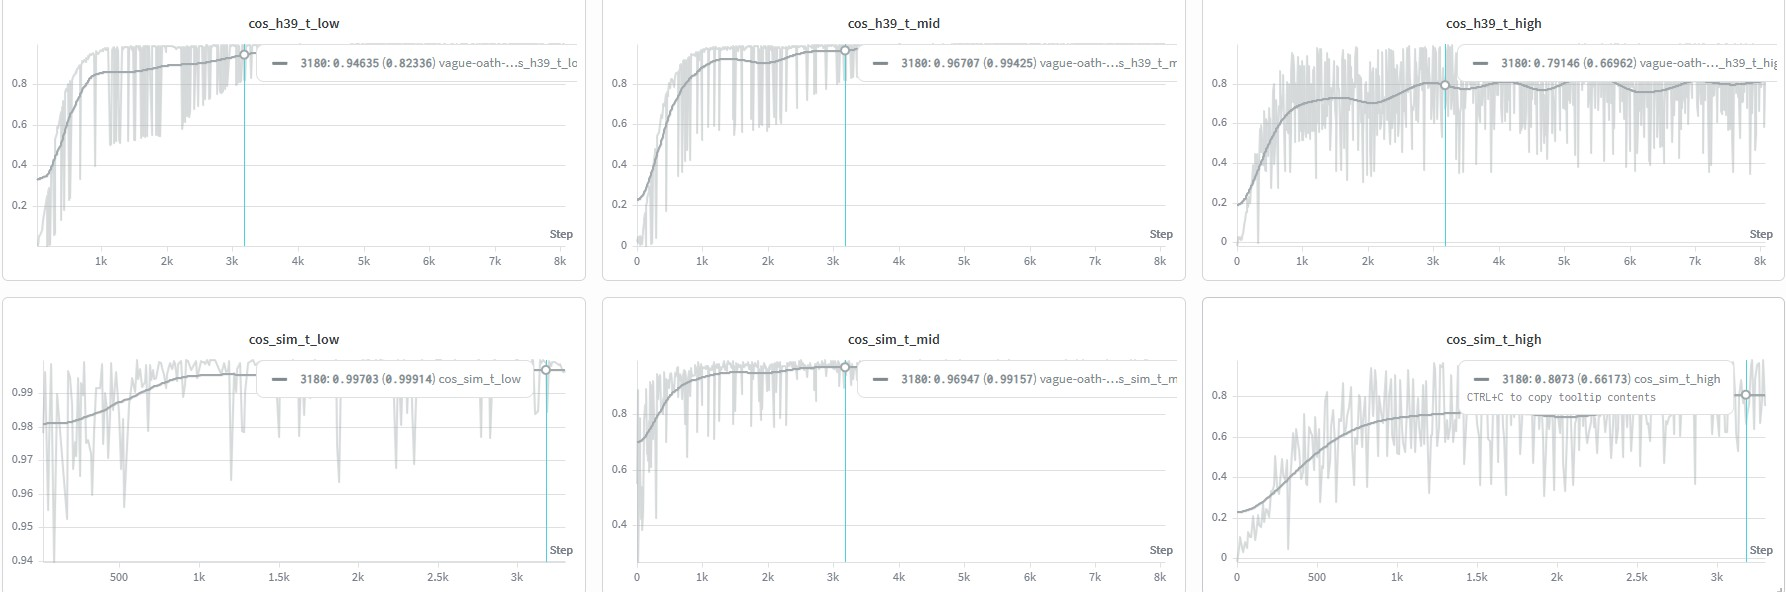
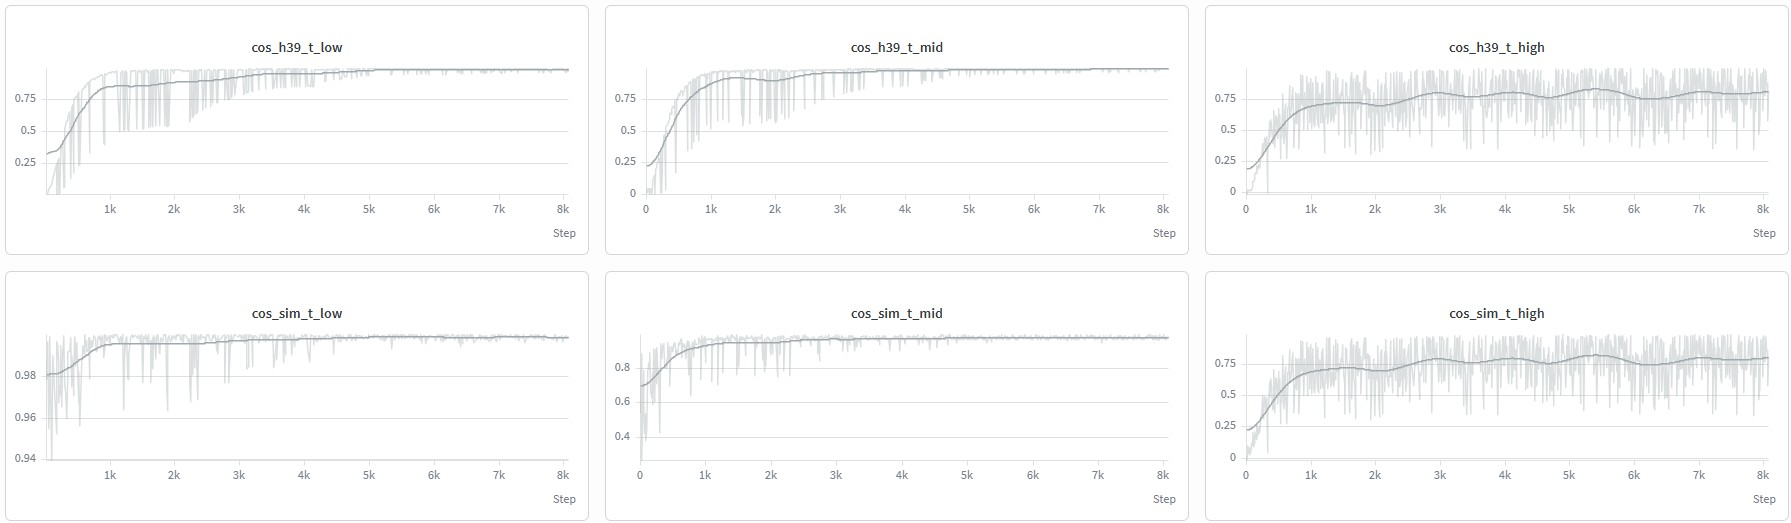
adr 71

diff --git a/experiments/phase3/kaggle/train_phase3_notebook.py b/experiments/phase3/kaggle/train_phase3_notebook.py
@@ -184,7 +184,7 @@ class Config:
     # Вес лосса разнообразия для AdaLN
     w_div = 0.1
     # Вес Decoder Entropy Loss (ADR 069)
-    w_entropy = 2.0
+    w_entropy = 1.0
     # Вес штрафа за collapse h_39 (Variance Matching, ADR-065).
     w_var_match = 150.0
     # Вес штрафа за внутритекстовый коллапс (Token-to-Token RKD)
@@ -783,6 +783,7 @@ def compute_phase3_loss(outputs: dict, w_prior: float = 0.05, w_var_match: float
     # --- cos_h39_t_* : cos(h_39, z_clean) — выход DUS ДО gate (истинный деноизинг) ---
     # Это ключевые метрики: они отражают реальное качество работы DUS без gate-артефакта.
     # cos_h39_t_high ≈ cos_sim_t_high (gate ≈ 1), но cos_h39_t_low — честная диагностика.
+    h39_low_loss = torch.tensor(0.0, device=z_clean.device)
     if "h_39" in outputs:
         h_39_norm   = safe_normalize(outputs["h_39"].float(), dim=-1)
         cos_h39     = (h_39_norm * target).sum(dim=-1)  # [B, T]
@@ -796,6 +797,12 @@ def compute_phase3_loss(outputs: dict, w_prior: float = 0.05, w_var_match: float
         if mid_mask_2d.sum() > 0:
             mid_tokens = (attn_f * mid_mask_2d).sum().clamp(min=1.0)
             metrics["cos_h39_t_mid"]  = ((cos_h39 * attn_f * mid_mask_2d).sum() / mid_tokens).detach()
+
+        # --- h39 Identity Loss (симметрия к Entropy Loss, ADR 070) ---
+        w_h39_low = 1.0
+        t_weight_low = (1.0 - t).unsqueeze(1).pow(2)
+        h39_low_loss = ((1.0 - cos_h39) * t_weight_low * attn_f).sum() / active_tokens
+        metrics["h39_low_loss"] = h39_low_loss.detach()
 
     # --- Prior Loss (геометрия сферы) ---
     z_flat    = dus_final.view(-1, D)
@@ -846,7 +853,7 @@ def compute_phase3_loss(outputs: dict, w_prior: float = 0.05, w_var_match: float
         seq_rkd_loss = ((sim_pred - sim_target).pow(2) * mask_2d).sum() / active_pairs
         metrics["seq_rkd_loss"] = seq_rkd_loss.detach()
 
-    total_loss = main_loss + w_prior * prior_loss + w_var_match * var_match_loss + w_seq_rkd * seq_rkd_loss
+    total_loss = main_loss + w_prior * prior_loss + w_var_match * var_match_loss + w_seq_rkd * seq_rkd_loss + h39_low_loss
 
     # --- Decoder Entropy Loss (????? ?? ?????????????) ---
     entropy_loss = torch.tensor(0.0, device=z_clean.device)

diff --git a/experiments/phase3/compare_18995_25995.py b/experiments/phase3/compare_18995_25995.py
@@ -11,8 +11,7 @@ from src.beb_la_dii.utils.loss import safe_normalize
 
 CKPTS = [
     r"C:\Experiments\BEBLaDII\experiments\phase3\local_checkpoints\phase3_step_18995.pth",
-    r"C:\Experiments\BEBLaDII\experiments\phase3\local_checkpoints\phase3_step_25995.pth",
-    r"C:\Experiments\BEBLaDII\experiments\phase3\local_checkpoints\phase3_step_32995.pth"
+    r"C:\Experiments\BEBLaDII\experiments\phase3\local_checkpoints\phase3_step_24995.pth",
 ]
 
 def compute_topo(h):

diff --git a/experiments/phase3/test_phase3_denoise_sanity.py b/experiments/phase3/test_phase3_denoise_sanity.py
@@ -292,5 +292,5 @@ def run_denoising_sanity_test(ckpt_path: str, device: str = "cpu"):
 
 if __name__ == "__main__":
     device = "cuda" if torch.cuda.is_available() else "cpu"
-    ckpt = r"C:\Experiments\BEBLaDII\experiments\phase3\local_checkpoints\phase3_step_32995.pth"
+    ckpt = r"C:\Experiments\BEBLaDII\experiments\phase3\local_checkpoints\phase3_step_24995.pth"
     run_denoising_sanity_test(ckpt, device=device)

diff --git a/.know/decisions/071_h39_identity_loss_against_entropy_collapse.md b/.know/decisions/071_h39_identity_loss_against_entropy_collapse.md
@@ -1,0 +1,22 @@
+# ADR 071: h39 Identity Loss against Entropy Mode Collapse
+
+## Контекст (Context)
+Внедрение Decoder Entropy Loss (ADR 069) для борьбы со "словесной кашей" на высоких уровнях шума привело к непредвиденному катастрофическому эффекту (Mode Collapse) на уровне сырого выхода DUS (`h_39`). 
+
+Анализ текстов (Sanity Check) выявил следующее:
+1. На низких уровнях шума ($t = 0.05 \dots 0.20$) косинусное сходство `h_39` с чистым текстом падало почти до нуля ($\approx 0.02$). Однако финальный текст генерировался идеально. Это происходило **исключительно** благодаря Skip-Connection и Identity Gate ($gate_t$, ADR 065), который на малых $t$ пропускал на выход почти чистый входной $z_{noisy}$, полностью маскируя деградацию DUS.
+2. На средних и высоких уровнях шума (например, $t = 0.5$, где $gate_t = 0.5$) ядовитый мусор из `h_39` (представляющий собой выученный "усредненный центроид" энтропии) получал равные права с $z_{noisy}$. В результате DUS генерировал абсолютно нечитаемый цифро-буквенный фарш (например, `22kt2 machine2 have55618 62.`), который был **хуже**, чем просто зашумленный входной текст без вмешательства DUS.
+
+Таким образом, давление Entropy Loss на высоких $t$ полностью "угнало" веса DUS, заставив модель забыть задачу точечного денойзинга и перейти к кластеризации в единый бессмысленный центроид.
+
+## Решение (Decision)
+1. **Внедрение h39 Identity Loss (Симметричный якорь):**
+   Добавлен новый штраф, который действует непосредственно на сырой выход DUS (`h_39`), до применения гейта.
+   $$ h39\_low\_loss = w_{h39\_low} \cdot (1 - \cos(h\_39, z_{clean})) \cdot (1 - t)^2 $$
+   Этот лосс симметричен Entropy Loss: он доминирует на околонулевых $t$ (где множитель $(1-t)^2 \approx 1$) и отключается на высоких $t$. Он принудительно заставляет `h_39` восстанавливать чистый текст в обход гейта, защищая веса от "угона" энтропийным лоссом.
+2. **Снижение веса энтропии:**
+   Параметр `w_entropy` снижен с `2.0` до `1.0` для уменьшения деструктивного давления на латентное пространство на высоких уровнях шума.
+
+## Последствия (Consequences)
+- **Положительные:** `h_39` получает жесткий якорь к истинному тексту на низких уровнях шума, что предотвращает топологический коллапс. Модель снова начнет обучаться настоящему денойзингу, а не полагаться на чит со skip-connection. Баланс между читаемостью (энтропия на высоких $t$) и точностью (денойзинг на низких $t$) восстанавливается.
+- **Отрицательные:** Небольшое увеличение вычислительной нагрузки на расчет дополнительного косинусного сходства для `h_39` на каждом шаге. Возможен конфликт градиентов в середине расписания ($t \approx 0.5$), если емкости модели (ModernBERT-large) не хватит для удовлетворения обоих противоположных требований.
